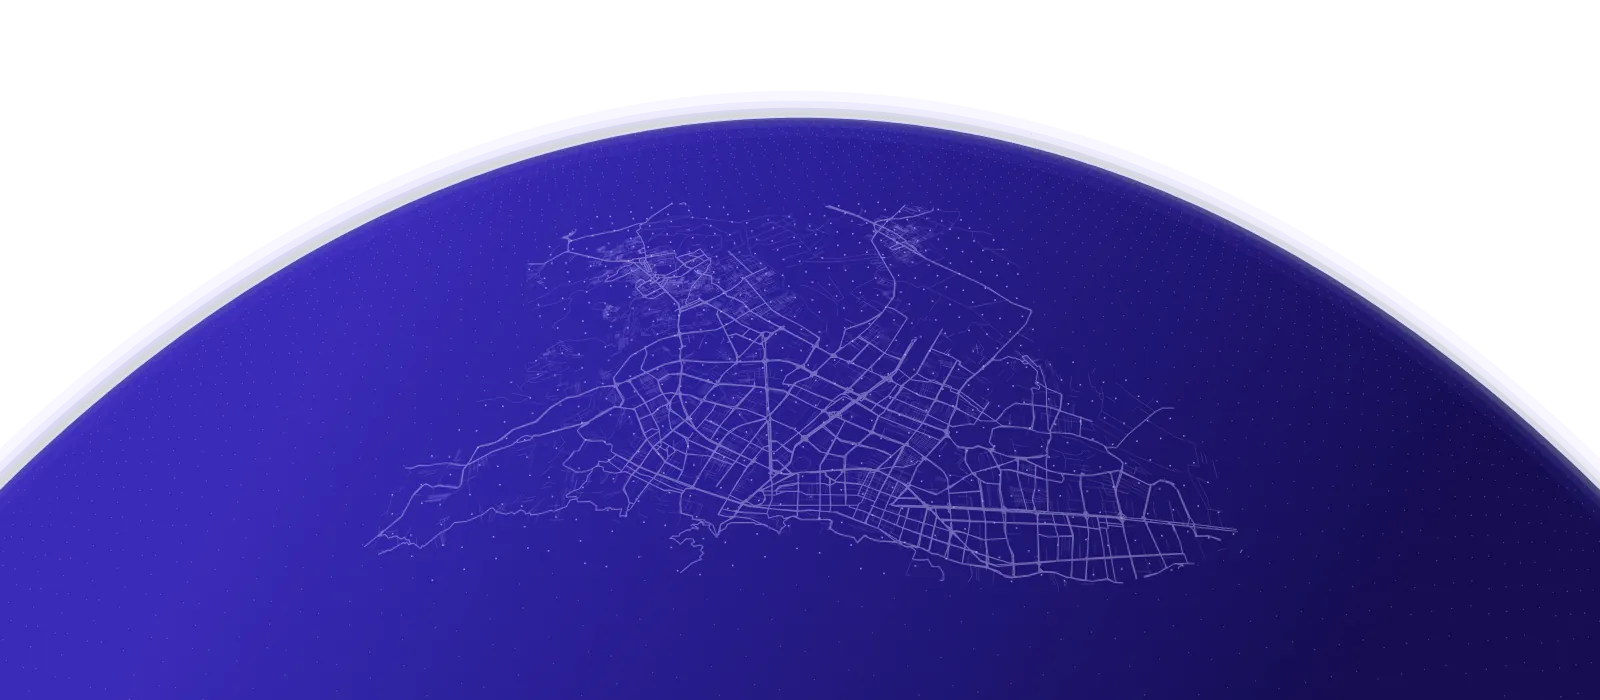
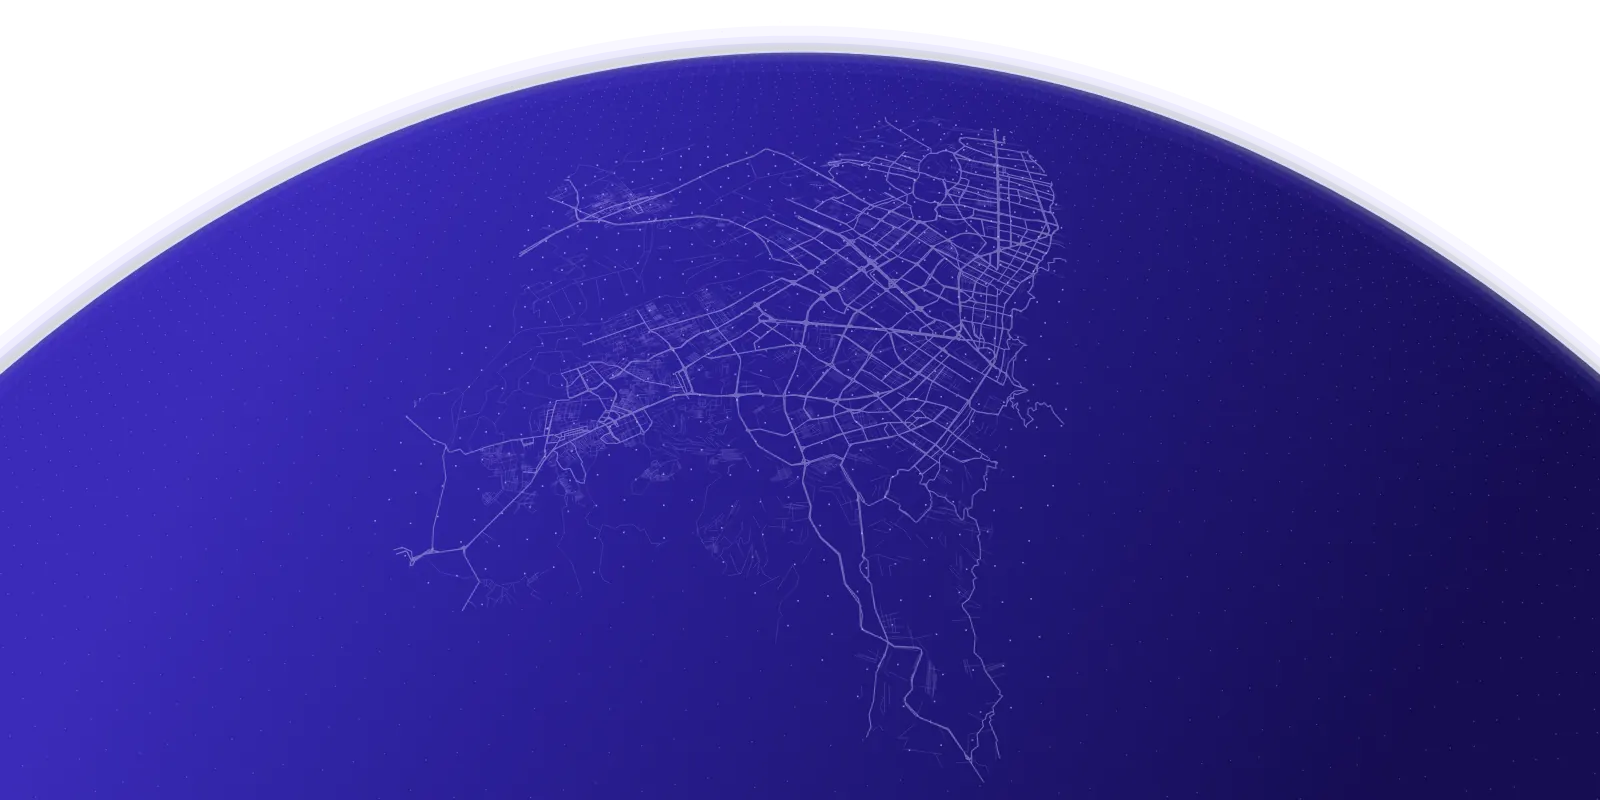
Web: naranja como tercer color, solo trama de puntos, íconos nuevos, menú móvil y Bogotá derecha en frontal
Claude-Session: https://claude.ai/code/session_01DxqiBbSv11VANarNNGiE5G

diff --git a/Styles/upgrade.css b/Styles/upgrade.css
@@ -7,7 +7,7 @@
 
 /* ---------- Paleta unificada ---------- */
 :root {
-  --naranja: #D7F25A;   /* antes naranja: ahora un lima claro (pareja del lima) */
+  --naranja: #FF8A1F;   /* tercer color de la marca: naranja (acento cálido) */
   --morado: #5A48D6;    /* antes morado: ahora el índigo claro de la marca */
 }
 .l2, .l6 { background: rgba(90, 72, 214, .5) !important; }
@@ -133,7 +133,7 @@ html:not(.js) .reveal { opacity: 1 !important; transform: none !important; }
   .hero-imagen { margin-top: 28px; }
   .planeta {
     width: 100vw; max-width: none; margin-inline: calc(50% - 50vw);
-    aspect-ratio: 16 / 7;
+    aspect-ratio: 2 / 1;
     -webkit-mask-image: linear-gradient(to bottom, transparent 0, #000 10%, #000 80%, transparent 100%);
             mask-image: linear-gradient(to bottom, transparent 0, #000 10%, #000 80%, transparent 100%);
   }
@@ -173,7 +173,7 @@ html:not(.js) .reveal { opacity: 1 !important; transform: none !important; }
 }
 .cobertura::after, .condicion-paquete::after {             /* filo lima arriba */
   content: ''; position: absolute; left: 32px; right: 32px; top: 0; height: 2px;
-  background: linear-gradient(90deg, transparent, #B5DB2E 30%, #D7F25A 70%, transparent);
+  background: linear-gradient(90deg, transparent, #B5DB2E 30%, #FF8A1F 75%, transparent);
   opacity: .75; pointer-events: none;
 }
 .condicion-num {
@@ -223,7 +223,7 @@ html:not(.js) .reveal { opacity: 1 !important; transform: none !important; }
 }
 .año-reverso::after {                                        /* filo lima arriba */
   content: ''; position: absolute; left: 26px; right: 26px; top: 0; height: 2px;
-  background: linear-gradient(90deg, #B5DB2E, #D7F25A 60%, transparent);
+  background: linear-gradient(90deg, #B5DB2E, #FF8A1F 65%, transparent);
 }
 .año-cifras { gap: 12px !important; border-top: none !important; padding-top: 14px !important; }
 .cifra {
@@ -260,7 +260,7 @@ html:not(.js) .reveal { opacity: 1 !important; transform: none !important; }
 }
 .mini-slider::after {
   content: ''; position: absolute; left: 28px; right: 28px; top: 0; height: 2px;
-  background: linear-gradient(90deg, transparent, #B5DB2E 30%, #D7F25A 70%, transparent); opacity: .75;
+  background: linear-gradient(90deg, transparent, #B5DB2E 30%, #FF8A1F 75%, transparent); opacity: .75;
 }
 .mp-caja { border-radius: 20px !important; }
 /* Celular: las tres cifras en una fila compacta para que no se corten */
@@ -288,9 +288,77 @@ html:not(.js) .reveal { opacity: 1 !important; transform: none !important; }
   .hero-imagen { justify-self: auto; width: 100%; display: flex; justify-content: center; margin-top: 12px; }
   .planeta {
     width: 100vw; min-width: 0; max-width: none; margin-inline: calc(50% - 50vw);
-    aspect-ratio: 16 / 7;
+    aspect-ratio: 2 / 1;
     -webkit-mask-image: linear-gradient(to bottom, transparent 0, #000 10%, #000 80%, transparent 100%);
             mask-image: linear-gradient(to bottom, transparent 0, #000 10%, #000 80%, transparent 100%);
   }
   html, body { overflow-x: clip; }
+}
+
+/* =====================================================================
+   Fondo: solo la trama de puntos (sin brillos de colores en las esquinas)
+   ===================================================================== */
+.luces { display: none !important; }
+.fusion-fondo::after, .fusion-fondo-nosotros::after {
+  content: ''; position: absolute; inset: 0; z-index: 0; pointer-events: none;
+  background-image: radial-gradient(circle, rgba(255, 255, 255, .11) 1px, transparent 1.6px);
+  background-size: 18px 18px;
+}
+
+/* =====================================================================
+   Tercer color: naranja. Lima = acción, naranja = acento cálido.
+   ===================================================================== */
+.tipo { gap: 12px; }
+.tipo-ico { display: grid; place-items: center; width: 42px; height: 42px; border-radius: 50%; flex-shrink: 0; }
+.tipo-ico svg { width: 22px; height: 22px; fill: none; stroke: currentColor; stroke-width: 1.8; stroke-linecap: round; stroke-linejoin: round; }
+.t-verde   { background: var(--verde, #B5DB2E) !important; color: #1B1370 !important; }
+.t-verde .tipo-ico { background: #1B1370; color: #B5DB2E; }
+.t-naranja { background: #FF8A1F; color: #2A1400; }
+.t-naranja .tipo-ico { background: #2A1400; color: #FF8A1F; }
+.t-blanco .tipo-ico { background: #3422A8; color: #fff; }
+.paso:nth-child(2) .paso-num { background: #FF8A1F !important; color: #2A1400 !important; box-shadow: 0 0 0 6px rgba(255, 138, 31, .16) !important; }
+.paso:nth-child(3) .paso-num { background: #fff !important; color: #1B1370 !important; box-shadow: 0 0 0 6px rgba(255, 255, 255, .12) !important; }
+.paso:nth-child(2):hover { border-color: rgba(255, 138, 31, .55) !important; }
+.etiqueta { border-color: rgba(255, 138, 31, .55) !important; color: #FFB066 !important; }
+.ic-comercios { background: rgba(255, 138, 31, .16) !important; border-color: rgba(255, 138, 31, .4) !important; color: #FF8A1F !important; }
+.ic-repartidores { background: rgba(255, 255, 255, .1) !important; border-color: rgba(255, 255, 255, .25) !important; color: #fff !important; }
+.linea-acento { background: linear-gradient(90deg, #B5DB2E, #FF8A1F) !important; }
+
+/* =====================================================================
+   Menú del celular: tarjeta flotante, el botón se vuelve una X
+   ===================================================================== */
+@media (max-width: 767px) {
+  .header { position: sticky; top: 0; z-index: 50; }
+  .menu-btn { position: relative; z-index: 2; width: 44px; height: 44px; align-items: center; justify-content: center; border-radius: 12px; transition: background .2s; }
+  .menu-btn span { transition: transform .3s cubic-bezier(.2,.8,.2,1), opacity .2s; }
+  .menu-toggle:checked + .menu-btn { background: rgba(255, 255, 255, .1); }
+  .menu-toggle:checked + .menu-btn span:nth-child(1) { transform: translateY(8px) rotate(45deg); }
+  .menu-toggle:checked + .menu-btn span:nth-child(2) { opacity: 0; }
+  .menu-toggle:checked + .menu-btn span:nth-child(3) { transform: translateY(-8px) rotate(-45deg); }
+  .header .menu {
+    top: 86px !important; left: 12px !important; right: 12px !important;
+    padding: 0 8px; border-radius: 22px;
+    background: rgba(27, 19, 112, .97) !important;
+    border: 1px solid rgba(255, 255, 255, 0);
+    -webkit-backdrop-filter: blur(14px); backdrop-filter: blur(14px);
+    opacity: 0; transform: translateY(-10px) scale(.98); transform-origin: top right;
+    transition: max-height .35s ease, opacity .25s ease, transform .3s cubic-bezier(.2,.8,.2,1), padding .3s ease, box-shadow .3s ease !important;
+    pointer-events: none;
+  }
+  .menu-toggle:checked ~ .menu {
+    max-height: 420px !important; padding: 8px; opacity: 1; transform: none; pointer-events: auto;
+    border-color: rgba(255, 255, 255, .14);
+    box-shadow: 0 24px 50px -20px rgba(0, 0, 0, .6), 0 0 0 100vmax rgba(8, 4, 40, .55);   /* oscurece lo de atrás */
+  }
+  .header .menu a {
+    display: flex; align-items: center; justify-content: space-between;
+    padding: 15px 16px !important; border-radius: 14px; font-size: 17px; font-weight: 600;
+    color: #fff; border: 0 !important;
+  }
+  .header .menu a + a { margin-top: 2px; }
+  .header .menu a::after { content: '→'; color: rgba(255, 255, 255, .45); transition: transform .2s, color .2s; }
+  .header .menu a:hover { background: rgba(255, 255, 255, .07); }
+  .header .menu a:hover::after { transform: translateX(3px); color: #FF8A1F; }
+  .header .menu a.activo { background: #B5DB2E; color: #1B1370 !important; }
+  .header .menu a.activo::after { content: '●'; font-size: 10px; color: #1B1370; }
 }

diff --git a/index.html b/index.html
@@ -12,10 +12,10 @@
     <link rel="stylesheet" href="Styles/stylesindex.css">
     <link href="https://fonts.googleapis.com/css2?family=Poppins:wght@400;500;600;700&family=Nunito:wght@500;600;700&display=swap" rel="stylesheet">
     <link rel="icon" href="IMG/Minilogo-transparencia.png">
-    <link rel="stylesheet" href="Styles/upgrade.css?v=14">
+    <link rel="stylesheet" href="Styles/upgrade.css?v=16">
     <!-- El planeta es una imagen ya dibujada: se precarga la de cada dispositivo -->
-    <link rel="preload" href="IMG/planeta-oblicuo.webp?v=2" as="image" type="image/webp" media="(min-width: 901px) and (orientation: landscape)">
-    <link rel="preload" href="IMG/planeta-frontal.webp?v=2" as="image" type="image/webp" media="(max-width: 900px), (orientation: portrait)">
+    <link rel="preload" href="IMG/planeta-oblicuo.webp?v=3" as="image" type="image/webp" media="(min-width: 901px) and (orientation: landscape)">
+    <link rel="preload" href="IMG/planeta-frontal.webp?v=3" as="image" type="image/webp" media="(max-width: 900px), (orientation: portrait)">
     <script>document.documentElement.classList.add('js');</script>
 </head>
 <body>
@@ -77,15 +77,15 @@
 
             <ul class="hero-tipos">
                 <li class="tipo t-verde">
-                    <img src="IMG/grandes-almacenes.png" alt="">
+                    <span class="tipo-ico"><svg viewBox="0 0 24 24" aria-hidden="true"><path d="M4 21V5a1 1 0 0 1 1-1h9a1 1 0 0 1 1 1v16"/><path d="M15 9h4a1 1 0 0 1 1 1v11"/><path d="M2.5 21h19"/><path d="M8 8h3M8 12h3M8 16h3M17.5 13h0M17.5 17h0"/></svg></span>
                     <h3>Para empresas</h3>
                 </li>
-                <li class="tipo t-azul">
-                    <img src="IMG/carrito-de-compras.png" alt="">
+                <li class="tipo t-naranja">
+                    <span class="tipo-ico"><svg viewBox="0 0 24 24" aria-hidden="true"><path d="M5 8h14l-1.2 11.2a2 2 0 0 1-2 1.8H8.2a2 2 0 0 1-2-1.8Z"/><path d="M9 8V6.5a3 3 0 0 1 6 0V8"/><path d="m9.5 14 2 2 3.5-3.5"/></svg></span>
                     <h3>Para ecommerce</h3>
                 </li>
                 <li class="tipo t-blanco">
-                    <img src="IMG/edificio-del-gobierno.png" alt="">
+                    <span class="tipo-ico"><svg viewBox="0 0 24 24" aria-hidden="true"><path d="M3 9.5 12 4l9 5.5"/><path d="M4.5 9.5h15"/><path d="M6.5 10v7.5M10.2 10v7.5M13.8 10v7.5M17.5 10v7.5"/><path d="M4 18h16M3 21h18"/></svg></span>
                     <h3>Para sector público</h3>
                 </li>
             </ul>
@@ -175,7 +175,7 @@
             <div class="zona-botones" role="group" aria-label="Elegir zona de cobertura">
                 <button type="button" class="zona-btn activo" data-zona="todas" aria-pressed="true" style="--c:#FFFFFF"><i></i>Toda la zona</button>
                 <button type="button" class="zona-btn" data-zona="bogota" aria-pressed="false" style="--c:#B5DB2E"><i></i>Bogotá</button>
-                <button type="button" class="zona-btn" data-zona="funza" aria-pressed="false" style="--c:#D7F25A"><i></i>Funza</button>
+                <button type="button" class="zona-btn" data-zona="funza" aria-pressed="false" style="--c:#FF8A1F"><i></i>Funza</button>
                 <button type="button" class="zona-btn" data-zona="soacha" aria-pressed="false" style="--c:#A99BFF"><i></i>Soacha</button>
             </div>
 
@@ -236,13 +236,13 @@
                     </g>
                     <g fill="none" stroke-width="4" stroke-linecap="round">
                         <path d="M150 200 L236.6 150" stroke="#B5DB2E"/>
-                        <path d="M150 200 L85 162.5" stroke="#FFFFFF"/>
+                        <path d="M150 200 L85 162.5" stroke="#FF8A1F"/>
                         <path d="M236.6 150 L236.6 75" stroke="#A99BFF"/>
                     </g>
                     <g font-family="Poppins, sans-serif" font-size="12" font-weight="600" fill="#fff" text-anchor="middle">
                         <rect x="167" y="181" width="88" height="24" rx="12" fill="rgba(18,12,82,.85)" stroke="#B5DB2E"/>
                         <text x="211" y="197">Largo 40 cm</text>
-                        <rect x="30" y="187" width="88" height="24" rx="12" fill="rgba(18,12,82,.85)" stroke="#FFFFFF"/>
+                        <rect x="30" y="187" width="88" height="24" rx="12" fill="rgba(18,12,82,.85)" stroke="#FF8A1F"/>
                         <text x="74" y="203">Ancho 30 cm</text>
                         <rect x="247" y="100" width="88" height="24" rx="12" fill="rgba(18,12,82,.85)" stroke="#A99BFF"/>
                         <text x="291" y="116">Alto 30 cm</text>
@@ -346,7 +346,7 @@
 </div>
 </main>
 
-<script src="Scripts/planeta.js?v=24" defer></script>
+<script src="Scripts/planeta.js?v=25" defer></script>
 <script src="https://cdnjs.cloudflare.com/ajax/libs/leaflet/1.9.4/leaflet.min.js" defer></script>
 <script src="Scripts/scriptindex.js" defer></script>
 

diff --git a/Pages/indexunete.html b/Pages/indexunete.html
@@ -9,7 +9,7 @@
     <link rel="stylesheet" href="../Styles/Stylesunete.css">
     <link href="https://fonts.googleapis.com/css2?family=Poppins:wght@400;500;600;700&family=Nunito:wght@500;600;700&display=swap" rel="stylesheet">
     <link rel="icon" href="../IMG/Minilogo-transparencia.png">
-    <link rel="stylesheet" href="../Styles/upgrade.css?v=8">
+    <link rel="stylesheet" href="../Styles/upgrade.css?v=16">
     <script>document.documentElement.classList.add('js');</script>
 </head>
 <body>
@@ -120,13 +120,13 @@
                                         </g>
                                         <g fill="none" stroke-width="4" stroke-linecap="round">
                                             <path d="M150 200 L236.6 150" stroke="#B5DB2E"/>
-                                            <path d="M150 200 L85 162.5" stroke="#FFFFFF"/>
+                                            <path d="M150 200 L85 162.5" stroke="#FF8A1F"/>
                                             <path d="M236.6 150 L236.6 75" stroke="#A99BFF"/>
                                         </g>
                                         <g font-family="Poppins, sans-serif" font-size="12" font-weight="600" fill="#fff" text-anchor="middle">
                                             <rect x="167" y="181" width="88" height="24" rx="12" fill="rgba(18,12,82,.85)" stroke="#B5DB2E"/>
                                             <text x="211" y="197">Largo 50 cm</text>
-                                            <rect x="30" y="187" width="88" height="24" rx="12" fill="rgba(18,12,82,.85)" stroke="#FFFFFF"/>
+                                            <rect x="30" y="187" width="88" height="24" rx="12" fill="rgba(18,12,82,.85)" stroke="#FF8A1F"/>
                                             <text x="74" y="203">Ancho 40 cm</text>
                                             <rect x="247" y="100" width="88" height="24" rx="12" fill="rgba(18,12,82,.85)" stroke="#A99BFF"/>
                                             <text x="291" y="116">Alto 40 cm</text>

diff --git a/Scripts/planeta.js b/Scripts/planeta.js
@@ -129,7 +129,7 @@
     const v = canvas.dataset.vista || (alLado() ? 'oblicuo' : 'frontal');   // data-vista fuerza una vista
     if (v === variante) return;
     variante = v;
-    canvas.style.backgroundImage = `url(${base}IMG/planeta-${v}.webp?v=2)`;
+    canvas.style.backgroundImage = `url(${base}IMG/planeta-${v}.webp?v=3)`;
     entregas = []; pings.length = 0;
     const usar = (d) => {
       if (variante !== v) return;
@@ -139,7 +139,7 @@
     };
     if (cache[v]) { usar(cache[v]); return; }
     rutas = [];
-    fetch(`${base}Scripts/planeta-${v}.json?v=3`)
+    fetch(`${base}Scripts/planeta-${v}.json?v=4`)
       .then((r) => (r.ok ? r.json() : Promise.reject()))
       .then((d) => {
         d.rutasListas = d.rutas.map((r) => ({ a: r.a, d: r.d, p: deshacer(r.p) }));

diff --git a/Scripts/scriptindex.js b/Scripts/scriptindex.js
@@ -81,7 +81,7 @@
             B.b5, B.b6, B.b7, B.b8, B.b9, B.b10, B.b11, B.b12,
             [4.510, -74.150], [4.480, -74.120], [4.470, -74.090], [4.500, -74.065],
             [4.550, -74.060], [4.600, -74.045], [4.655, -74.035], [4.725, -74.020] ] },
-        funza: { nombre: 'Funza', color: '#D7F25A', texto: 'Funza, Cundinamarca', tarifa: 10000, recargo: 0, coords: [
+        funza: { nombre: 'Funza', color: '#FF8A1F', texto: 'Funza, Cundinamarca', tarifa: 10000, recargo: 0, coords: [
             B.b5, B.b6, B.b7, B.b8,
             [4.655, -74.250], [4.700, -74.262], [4.760, -74.245], [4.768, -74.195], [4.760, -74.160] ] },
         soacha: { nombre: 'Soacha', color: '#A99BFF', texto: 'Soacha, Cundinamarca', tarifa: 10000, recargo: 0, coords: [

diff --git a/Scripts/scriptUnete.js b/Scripts/scriptUnete.js
@@ -46,7 +46,7 @@
             B.b5, B.b6, B.b7, B.b8, B.b9, B.b10, B.b11, B.b12,
             [4.510, -74.150], [4.480, -74.120], [4.470, -74.090], [4.500, -74.065],
             [4.550, -74.060], [4.600, -74.045], [4.655, -74.035], [4.725, -74.020] ] },
-        funza: { nombre: 'Funza', color: '#D7F25A', tarifa: 10000, recargo: 0, coords: [
+        funza: { nombre: 'Funza', color: '#FF8A1F', tarifa: 10000, recargo: 0, coords: [
             B.b5, B.b6, B.b7, B.b8,
             [4.655, -74.250], [4.700, -74.262], [4.760, -74.245], [4.768, -74.195], [4.760, -74.160] ] },
         soacha: { nombre: 'Soacha', color: '#A99BFF', tarifa: 10000, recargo: 0, coords: [

diff --git a/Pages/indexcontacto.html b/Pages/indexcontacto.html
@@ -9,7 +9,7 @@
     <link rel="stylesheet" href="../Styles/stylescontacto.css">
     <link href="https://fonts.googleapis.com/css2?family=Poppins:wght@400;500;600;700&family=Nunito:wght@500;600;700&display=swap" rel="stylesheet">
     <link rel="icon" href="../IMG/Minilogo-transparencia.png">
-    <link rel="stylesheet" href="../Styles/upgrade.css?v=8">
+    <link rel="stylesheet" href="../Styles/upgrade.css?v=16">
     <script>document.documentElement.classList.add('js');</script>
 </head>
 <body>

diff --git a/Pages/indexnosotros.html b/Pages/indexnosotros.html
@@ -8,7 +8,7 @@
     <link rel="stylesheet" href="../Styles/Stylesnosotros.css">
     <link href="https://fonts.googleapis.com/css2?family=Poppins:wght@400;500;600;700&display=swap" rel="stylesheet">
     <link rel="icon" href="../IMG/Minilogo-transparencia.png">
-    <link rel="stylesheet" href="../Styles/upgrade.css?v=8">
+    <link rel="stylesheet" href="../Styles/upgrade.css?v=16">
     <script>document.documentElement.classList.add('js');</script>
 </head>
 <body>

diff --git a/Styles/stylesindex.css b/Styles/stylesindex.css
@@ -560,7 +560,7 @@ img { display: block; max-width: 100%; }
 /* Color de cada zona (antes iba en línea dentro del HTML) */
 .zona-btn[data-zona="todas"]  { --c: #FFFFFF; }
 .zona-btn[data-zona="bogota"] { --c: #B5DB2E; }
-.zona-btn[data-zona="funza"]  { --c: #D7F25A; }
+.zona-btn[data-zona="funza"]  { --c: #FF8A1F; }
 .zona-btn[data-zona="soacha"] { --c: #A99BFF; }
 
 .zona-btn i { width: 10px; height: 10px; border-radius: 50%; background: var(--c); }

diff --git a/Styles/Stylesunete.css b/Styles/Stylesunete.css
@@ -403,7 +403,7 @@
 }
 .mc-chip[data-zona="todas"]  { --c: #FFFFFF; }
 .mc-chip[data-zona="bogota"] { --c: #B5DB2E; }
-.mc-chip[data-zona="funza"]  { --c: #D7F25A; }
+.mc-chip[data-zona="funza"]  { --c: #FF8A1F; }
 .mc-chip[data-zona="soacha"] { --c: #A99BFF; }
 .mc-chip i { width: 8px; height: 8px; border-radius: 50%; background: var(--c); }
 .mc-chip:hover { color: var(--blanco); background: rgba(255, 255, 255, .08); }

diff --git a/herramientas/planeta/LEEME.md b/herramientas/planeta/LEEME.md
@@ -4,13 +4,13 @@ La web **no** dibuja el planeta en vivo. Usa dos archivos ya preparados:
 
 | Archivo | Qué es |
 |---------|--------|
-| `IMG/planeta-oblicuo.webp` (1500×1200) y `IMG/planeta-frontal.webp` (1600×700) | Lo fijo: estrellas, superficie, horizonte, calles reales y órbitas. |
+| `IMG/planeta-oblicuo.webp` (1500×1200) y `IMG/planeta-frontal.webp` (1600×800) | Lo fijo: estrellas, superficie, horizonte, calles reales y órbitas. |
 | `Scripts/planeta-oblicuo.json` y `Scripts/planeta-frontal.json` | Unas 170 trayectorias por las calles, en píxeles de la imagen, más las órbitas de los satélites. |
 
 `Scripts/planeta.js` pone la imagen de fondo y anima encima las entregas, las
 llegadas y los satélites. La vista cambia en vivo al redimensionar la ventana:
 
-- **Hasta 900 px de ancho**: el planeta va solo, debajo del texto. Se usa la vista frontal, a todo el ancho y en formato 16:7.
+- **Hasta 900 px de ancho**: el planeta va solo, debajo del texto. Se usa la vista frontal, a todo el ancho y en formato 2:1.
 - **Más de 900 px**: el planeta va al lado del texto. Se usa la vista oblicua, en formato 5:4.
 
 ## Regenerar
@@ -33,7 +33,7 @@ Sirve para cambiar el ángulo, el encuadre o las calles. Necesita Python 3, Node
 
    ```bash
    node exp.js oblicuo 1500 1200 '{}' '0.57,0.5' .
-   node exp.js frontal 1600 700 '{"ladeo":0,"rumbo":0,"giroMapa":-80,"picada":34,"altura":0.42,"atras":0.42,"lente":0.62,"mira":[4.645,-74.135]}' '0.5,0.24' .
+   node exp.js frontal 1600 800 '{"ladeo":0,"rumbo":0,"giroMapa":0,"picada":38,"altura":0.42,"atras":0.42,"lente":0.72,"mira":[4.625,-74.14]}' '0.5,0.24' .
    ```
 
 4. Convierte los PNG a WebP (calidad 78) y copia los archivos a `IMG/` y `Scripts/`.
